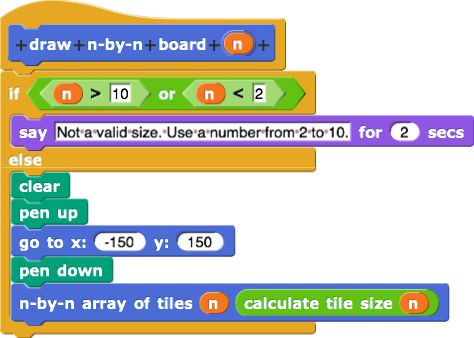
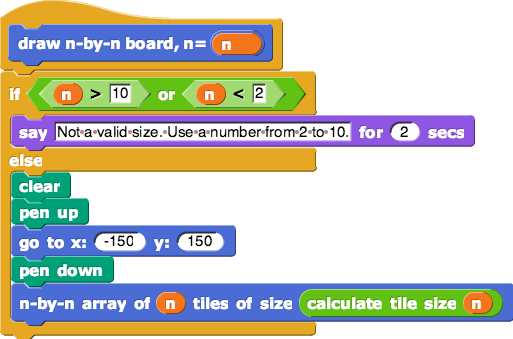
finishing U3L3 game

diff --git a/cur/programming/2-conditionals-abstraction-testing/3-building-more-complex-blocks/1-abstraction-developing-a-board-game.html b/cur/programming/2-conditionals-abstraction-testing/3-building-more-complex-blocks/1-abstraction-developing-a-board-game.html
@@ -33,18 +33,18 @@
                   	<li>And, <img src="/bjc-r/img/2-conditionals-abstraction-testing/calculate-tile-size.png" alt="calculate tile size"> which can be used in <img src="/bjc-r/img/2-conditionals-abstraction-testing/nxn-array-of-tiles(tiles-3,size-calculated-to-fit-3-by-3).png" alt="nxn-array-of-tiles(tiles-3,size-calculated-to-fit-3-by-3)"> to make sure the entire board fits.</li>
                   </ol>
                  <p>Test each block by itself before building a block that uses it.</p>
+                 <p>Your top-level board-drawing block, <code>draw n-by-n board</code>, might look something like this.</p>
+                 <p><img src="/bjc-r/img/2-conditionals-abstraction-testing/draw-n-by-n-board(n).png" alt="draw an n-by-n board that fits within a 300 by 300 space centered on the stage">. </p>
 				</li>
-                
-                <li>If you have not already done it, now create <code>draw n-by-n board</code>. <em><strong>UNEDITED FROM HERE ON</strong></em><strong></strong></li>
                 <li> Now build some tools you might need for a game. 
                 	<ol>
-                    	<li> Create a <code>calculate tile size</code> block that figures out what <em>size</em> each tile must be to center an n-by-n board on the stage and make the entire n-by-n board fit well. Use that <code>calculate tile size</code> block in a <code>draw n-by-n board</code> block like this:
-                        <p><img src="/bjc-r/img/2-conditionals-abstraction-testing/draw-n-by-n-board(n).png" alt="draw an n-by-n board that fits within a 300 by 300 space centered on the stage">. </p></li>
-                        <li> Build a reporter <code>on the board?</code> that uses your <code>between?</code> block to report <code>true</code> if the sprite is on the board, and reports <code>false</code> if the sprite is dragged completely off the board.</li>
-                        <li> Now build <code>which cell?</code> that tells which cell the sprite has been dragged into. <div class="sidenote">There are many ways to write <code>which row?</code> and <code>which column?</code> You can, of course, use lots of <code>if</code> statements, but since the number of rows can change, it's hard to know how many to use. One convenient way is to divide the total size of the game board by the size of each cell. To use that result, you need to round down. <img src="/bjc-r/img/blocks/round-a-number.png" alt="round a number"> can do it, but it rounds to the <em>nearest</em> integer, up <em>or</em> down. The function <img src="/bjc-r/img/blocks/floor of number.png" alt="floor of number"> always rounds <em>down</em>, making it easier to use. The <code>floor</code> function is in the same block as <code>sqrt</code>.</div>
+                    	<li> Build a predicate <img src="/bjc-r/img/2-conditionals-abstraction-testing/on-the-boardP.png" alt="on the board?"> that uses your <code>between?</code> block to report <code>true</code> if the sprite is on the board, and reports <code>false</code> if the sprite is dragged completely off the board.</li>
+                        <li> Build <code>which cell?</code> that tells which cell the sprite has been dragged into. 
                           Here is one way to do it that uses two other blocks that specialize in reporting <code>which column?</code> and <code>which row?</code> the sprite is in.
 <p><img src="/bjc-r/img/2-conditionals-abstraction-testing/which-cell(n) without computation.png" alt="partial script for &quot;which-cell?&quot; reporter"></p>
-                          <p>These blocks will, of course, need to know how many rows and columns there were, so they'll need the input <code>n</code>.</p></li>
+                          <p>These blocks will, of course, need to know how many rows and columns there were, so they'll need the input <code>n</code>.</p>
+                          <div class="endnote">There are many ways to write <code>which row?</code> and <code>which column?</code> You can, of course, use lots of <code>if</code> statements, but since the number of rows can change, it's hard to know how many to use. One convenient way is to divide the total size of the game board by the size of each cell. To use that result, you need to round down. <img src="/bjc-r/img/blocks/round-a-number.png" alt="round a number"> can do it, but it rounds to the <em>nearest</em> integer, up <em>or</em> down. The function <img src="/bjc-r/img/blocks/floor of number.png" alt="floor of number"> always rounds <em>down</em>, making it easier to use. The <code>floor</code> function is in the same block as <code>sqrt</code>.</div>
+                        </li>
                         <li>Here's a block that you can use to test how well your other blocks work together.
                         <p><img src="/bjc-r/img/2-conditionals-abstraction-testing/play-on-n-by-n-board.png" alt="play on n-by-n board">  <img src="/bjc-r/img/2-conditionals-abstraction-testing/play-on-n-by-n-board.gif" alt="animation of play"></p>
                         <p>Try it out for boards of different sizes.</p></li>
